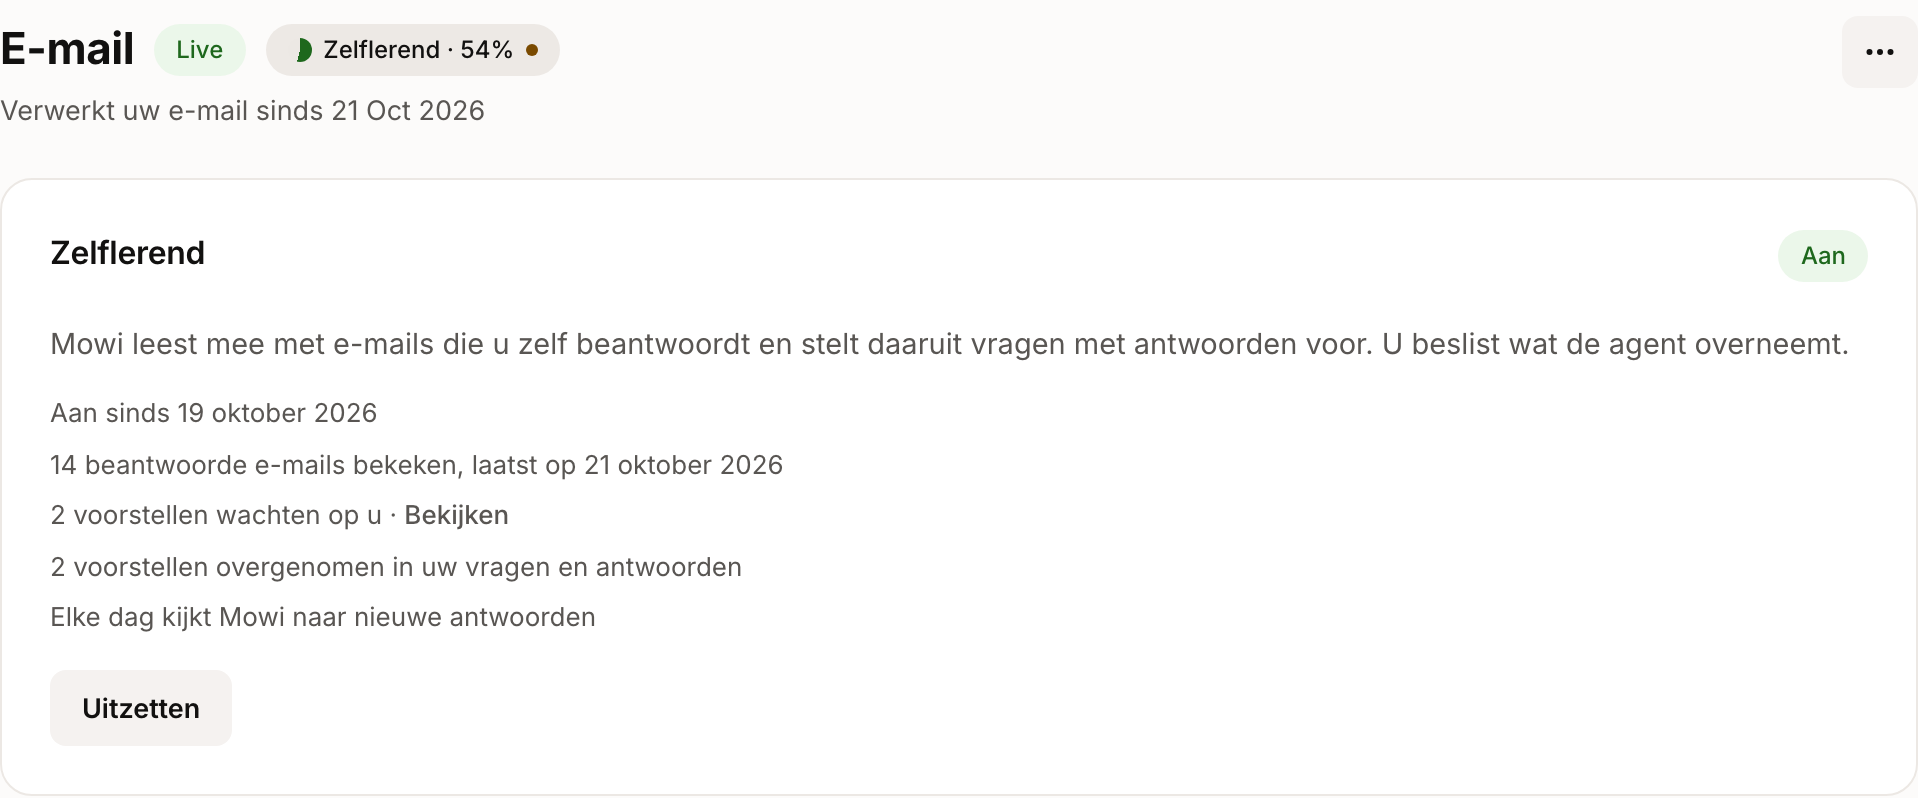
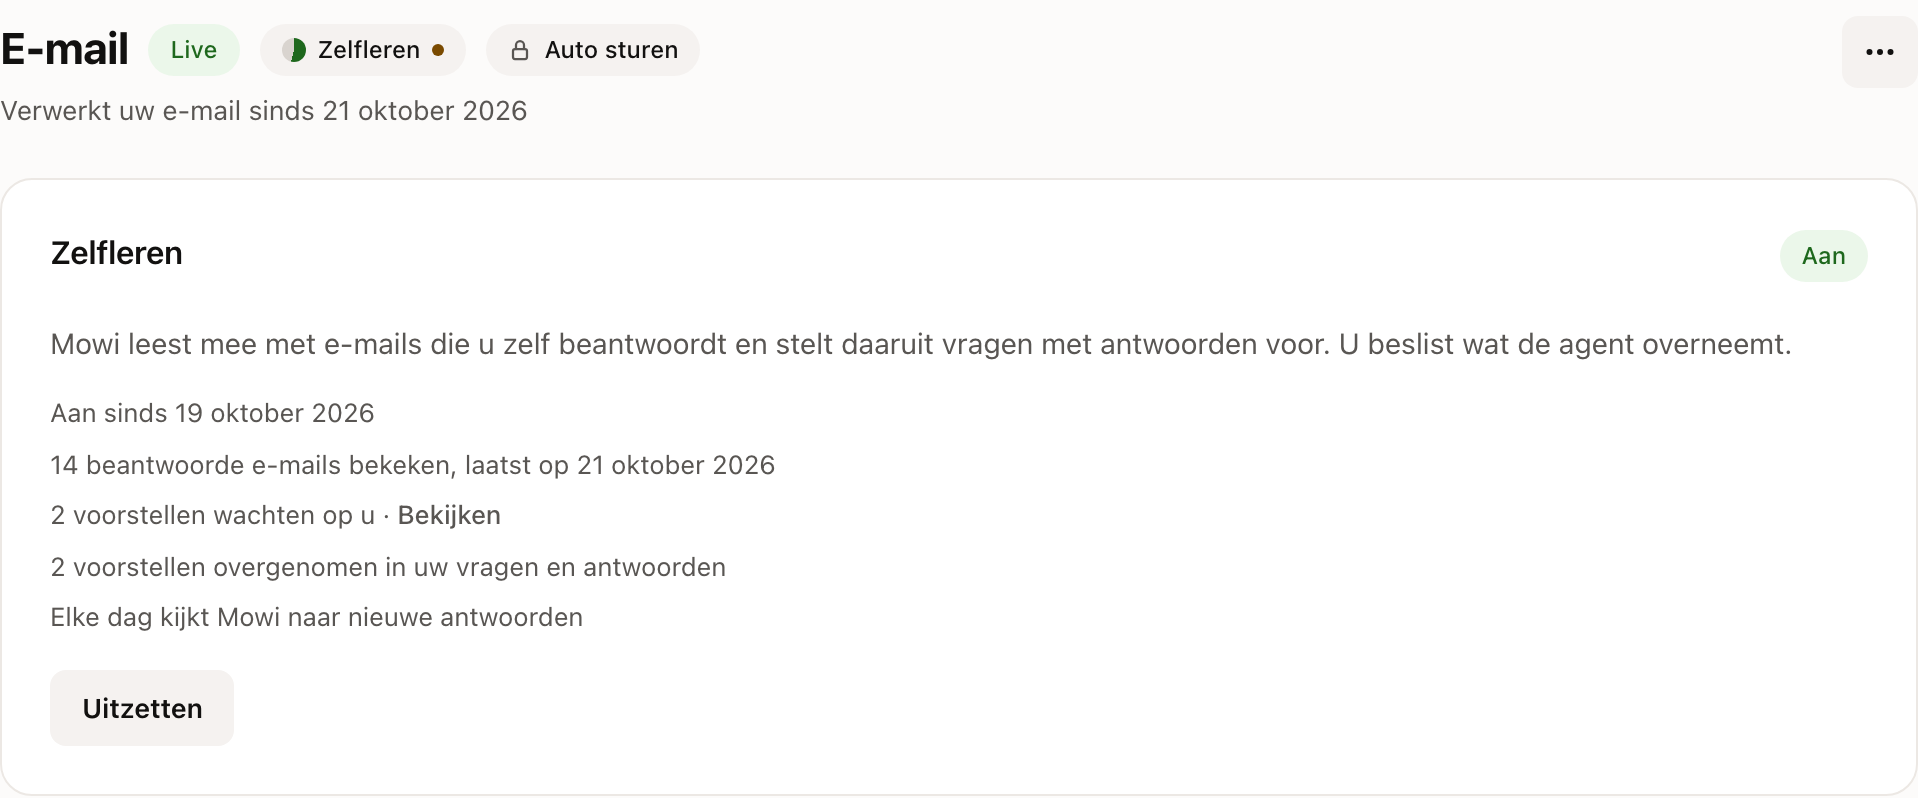
Docs: Zelflerend is now Zelfleren; re-shot its card
The dashboard says Zelfleren since 9a579e1 (the noun, one word). The label no
longer shows a percentage or "uit": the ring fills as the agent learns and the
percentage is in the tooltip, so the section says that now. The screenshot is
re-shot with the Auto sturen chip and the Dutch date (424bb56). Anchor
#zelflerend stays so existing links keep working.

diff --git a/docs/agent-email-triage.html b/docs/agent-email-triage.html
@@ -154,7 +154,7 @@
   Boven de knop staat een vinkje: <strong>Mowi mag mijn mailbox, inclusief verzonden e-mail van de afgelopen 30 dagen,
   analyseren om antwoordvoorstellen te doen.</strong> Dit is optioneel. Mowi stelt dan vragen en antwoorden voor uit uw
   eigen e-mail, die u zelf beoordeelt voordat ze gebruikt worden. U kunt dit later ook aan- of uitzetten op de pagina
-  <strong>E-mail</strong>. Zie <a href="#zelflerend">Zelflerend</a>.
+  <strong>E-mail</strong>. Zie <a href="#zelflerend">Zelfleren</a>.
 </p>
 
 <h2 id="schrijven">Instellen hoe de agent schrijft</h2>
@@ -282,8 +282,8 @@
   <strong>E-mails</strong>: per e-mail wat de agent ermee deed, met bovenaan een keuze voor de periode.
 </p>
 <p>
-  Naast de naam <strong>E-mail</strong> staat of de agent live is, en de labels <strong>Zelflerend</strong> en
-  <strong>Auto sturen</strong>. Het rondje bij <strong>Zelflerend</strong> vult zich naarmate de agent meer leert. Bij
+  Naast de naam <strong>E-mail</strong> staat of de agent live is, en de labels <strong>Zelfleren</strong> en
+  <strong>Auto sturen</strong>. Het rondje bij <strong>Zelfleren</strong> vult zich naarmate de agent meer leert. Bij
   <strong>Auto sturen</strong> staat een slotje zolang nog geen categorie
   <a href="#automatisch-versturen">automatisch versturen</a> heeft verdiend. Daarna staat er een grijs bolletje, en een
   groen bolletje zodra een categorie zelf verstuurt. Klik op een label om de kaart erachter te openen.
@@ -294,15 +294,15 @@
   automatisch versturen, dan ziet u dat ook hier, met <strong>Bekijken</strong>.
 </p>
 
-<h2 id="zelflerend">Zelflerend</h2>
+<h2 id="zelflerend">Zelfleren</h2>
 <p>
-  Met <strong>Zelflerend</strong> leest Mowi mee met e-mails die u zelf beantwoordt. Daaruit stelt Mowi vragen met
+  Met <strong>Zelfleren</strong> leest Mowi mee met e-mails die u zelf beantwoordt. Daaruit stelt Mowi vragen met
   antwoorden voor. U beslist wat de agent overneemt.
 </p>
 <p>
-  Op de pagina <strong>E-mail</strong> staat naast <strong>Live</strong> het label <strong>Zelflerend</strong>, met een
-  percentage als het aan staat, of <strong>uit</strong>. Het percentage geeft aan hoe ver uw agent is met zelf leren. Een
-  stip betekent dat er voorstellen op u wachten. Klik op het label: de kaart <strong>Zelflerend</strong> opent bovenaan de
+  Op de pagina <strong>E-mail</strong> staat naast <strong>Live</strong> het label <strong>Zelfleren</strong>. Het rondje
+  erin vult zich naarmate uw agent meer leert, en is leeg als het uit staat. Met de muis op het label ziet u het
+  percentage. Een stip betekent dat er voorstellen op u wachten. Klik op het label: de kaart <strong>Zelfleren</strong> opent bovenaan de
   pagina, met sinds wanneer het aan staat, hoeveel beantwoorde e-mails Mowi bekeek en hoeveel voorstellen wachten.
 </p>
 <ul>
@@ -315,9 +315,9 @@
 </ul>
 
 <div class="docs-media docs-media--shot">
-<a href="../assets/docs/agent-email-triage-9-zelflerend.webp?v=20261021b" target="_blank" rel="noopener"><img src="../assets/docs/agent-email-triage-9-zelflerend.webp?v=20261021b" alt="De pagina E-mail met naast Live het label Zelflerend · 54 procent, en daaronder de geopende kaart Zelflerend met de wachtende voorstellen en de knop Uitzetten" width="959" height="399" loading="lazy" /></a>
+<a href="../assets/docs/agent-email-triage-9-zelflerend.webp?v=20261023" target="_blank" rel="noopener"><img src="../assets/docs/agent-email-triage-9-zelflerend.webp?v=20261023" alt="De pagina E-mail met naast Live de labels Zelfleren en Auto sturen, en daaronder de geopende kaart Zelfleren met de wachtende voorstellen en de knop Uitzetten" width="959" height="399" loading="lazy" /></a>
 </div>
-<p class="docs-media-caption">Het label <strong>Zelflerend</strong> naast <strong>Live</strong>, en de kaart die het opent.</p>
+<p class="docs-media-caption">Het label <strong>Zelfleren</strong> naast <strong>Live</strong>, en de kaart die het opent.</p>
 
 <div class="docs-callout docs-callout-note">
 <svg width="16" height="16" viewBox="0 0 24 24" fill="none" stroke="currentColor" stroke-width="1.8" stroke-linecap="round" stroke-linejoin="round"><circle cx="12" cy="12" r="8.5"/><path d="M12 11v5"/><circle cx="12" cy="8" r=".4" fill="currentColor"/></svg>
